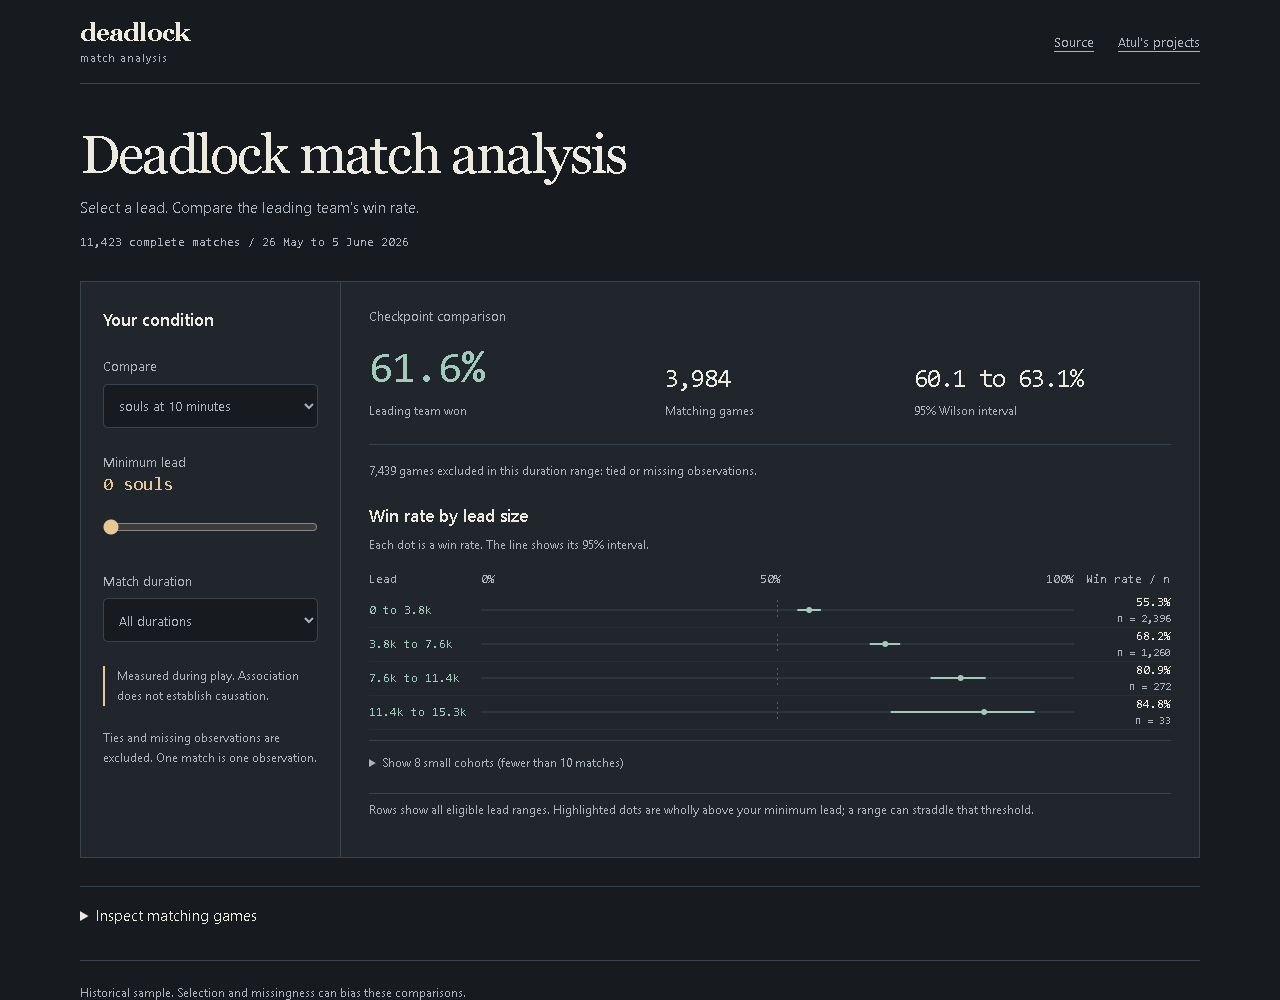
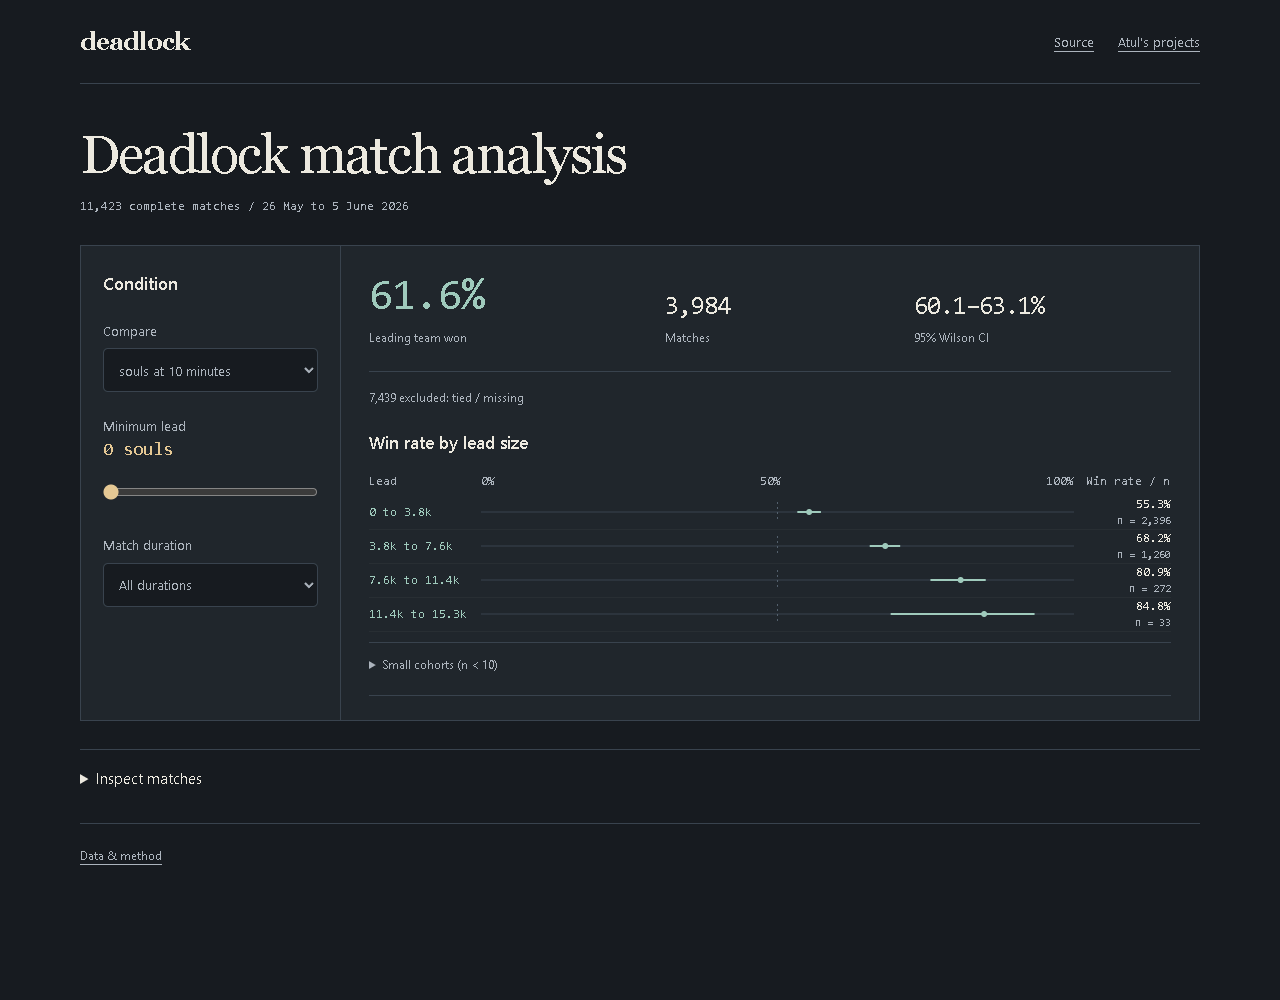
Trim match workbench copy and repeated explanations

diff --git a/examples/portfolio/index.html b/examples/portfolio/index.html
@@ -2,24 +2,23 @@
 <html lang="en">
 <head><meta charset="utf-8"><meta name="viewport" content="width=device-width,initial-scale=1"><meta name="theme-color" content="#171b20"><title>Deadlock match analysis</title><link rel="icon" href="favicon.svg" type="image/svg+xml"><link rel="stylesheet" href="style.css"></head>
 <body>
-<header><a class="brand" href="./">deadlock<span>match analysis</span></a><nav><a href="https://github.com/LolStar123/deadlock-match-analysis">Source</a><a href="https://lolstar123.github.io/just-a-little-further/">Atul's projects</a></nav></header>
+<header><a class="brand" href="./">deadlock</a><nav><a href="https://github.com/LolStar123/deadlock-match-analysis">Source</a><a href="https://lolstar123.github.io/just-a-little-further/">Atul's projects</a></nav></header>
 <main>
-<section class="hero"><h1>Deadlock match analysis</h1><p>Select a lead. Compare the leading team's win rate.</p><p id="scope">Loading match archive...</p></section>
+<section class="hero"><h1>Deadlock match analysis</h1><p id="scope">Loading match archive...</p></section>
 <div class="workbench">
 <aside class="controls" aria-label="Define a match condition">
-<h2>Your condition</h2>
+<h2>Condition</h2>
 <label>Compare<select id="metric" disabled></select></label>
 <label>Minimum lead <strong id="lead-label"></strong><input id="threshold" type="range" min="0" max="20000" step="1000" value="0" disabled></label>
 <label>Match duration<select id="duration" disabled><option value="0,120">All durations</option><option value="0,25">Under 25 minutes</option><option value="25,40">25 to 40 minutes</option><option value="40,120">40 minutes or longer</option></select></label>
-<p id="context"></p><p class="method">Ties and missing observations are excluded. One match is one observation.</p>
 </aside>
 <section class="analysis" aria-label="Conditional win rate">
 <p id="answer" class="answer" aria-live="polite">Loading the selected condition...</p>
-<section class="result"><div class="primary"><strong id="win-rate">...</strong><span>Leading team won</span></div><div><strong id="sample">...</strong><span>Matching games</span></div><div><strong id="interval">...</strong><span>95% Wilson interval</span></div></section>
+<section class="result"><div class="primary"><strong id="win-rate">...</strong><span>Leading team won</span></div><div><strong id="sample">...</strong><span>Matches</span></div><div><strong id="interval">...</strong><span>95% Wilson CI</span></div></section>
 <p id="coverage" class="coverage"></p>
-<section class="chart"><h2 id="chart-title">Win rate by lead size</h2><p class="chart-note">Each dot is a win rate. The line shows its 95% interval.</p><div id="chart"></div><p class="chart-note">Rows show all eligible lead ranges. Highlighted dots are wholly above your minimum lead; a range can straddle that threshold.</p></section>
+<section class="chart"><h2 id="chart-title">Win rate by lead size</h2><div id="chart"></div></section>
 </section>
 </div>
-<details id="cohort"><summary>Inspect matching games</summary><div class="cohort-head"><p id="dot-note"></p><button id="download" disabled>Export selected cohort</button></div><div id="dots"></div><p id="match-detail" role="status">Choose a match to inspect its lead and outcome.</p></details>
-<footer>Historical sample. Selection and missingness can bias these comparisons.</footer>
+<details id="cohort"><summary>Inspect matches</summary><div class="cohort-head"><p id="dot-note"></p><button id="download" disabled>Export CSV</button></div><div id="dots"></div><p id="match-detail" role="status">Select a match.</p></details>
+<footer><a href="https://github.com/LolStar123/deadlock-match-analysis#readme">Data &amp; method</a></footer>
 </main><script type="module" src="app.mjs"></script></body></html>

diff --git a/examples/portfolio/style.css b/examples/portfolio/style.css
@@ -6,3 +6,4 @@
 .sparse-bins{margin-top:10px;padding-bottom:8px;border-block:1px solid var(--line)}.sparse-bins summary{font-size:12px;color:var(--muted);padding:13px 0;min-height:44px}.sparse-bins .chart-note{margin-bottom:10px}.hero h1{font-size:clamp(35px,4.5vw,54px)}
 
 .result .primary strong.empty{font-size:24px;letter-spacing:0;line-height:1.3}
+.answer:empty{display:none}

diff --git a/tools/browser_audit.py b/tools/browser_audit.py
@@ -24,7 +24,7 @@ try:
         page.locator('#threshold').fill('5000');page.locator('#threshold').dispatch_event('input')
         assert page.evaluate('__deadlock.result.n')<before
         page.locator('#metric').select_option('player_damage')
-        assert 'end-of-match' in page.locator('#context').inner_text()
+        assert 'End-of-match' in page.locator('#answer').inner_text()
         page.locator('#cohort summary').click()
         page.locator('#dots button').first.click()
         assert 'match ' in page.locator('#match-detail').inner_text()
